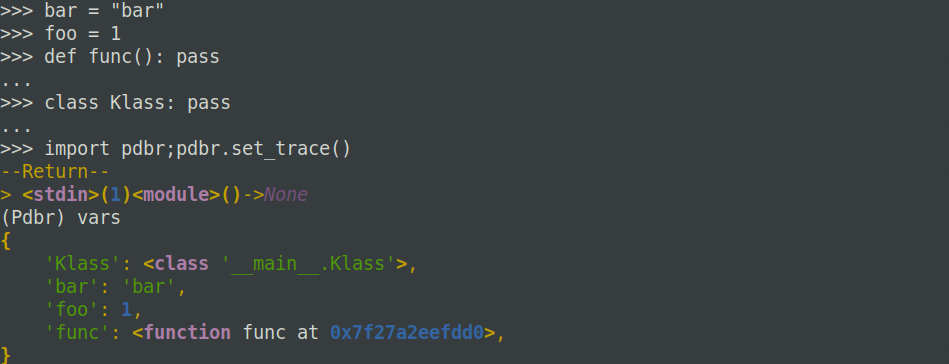
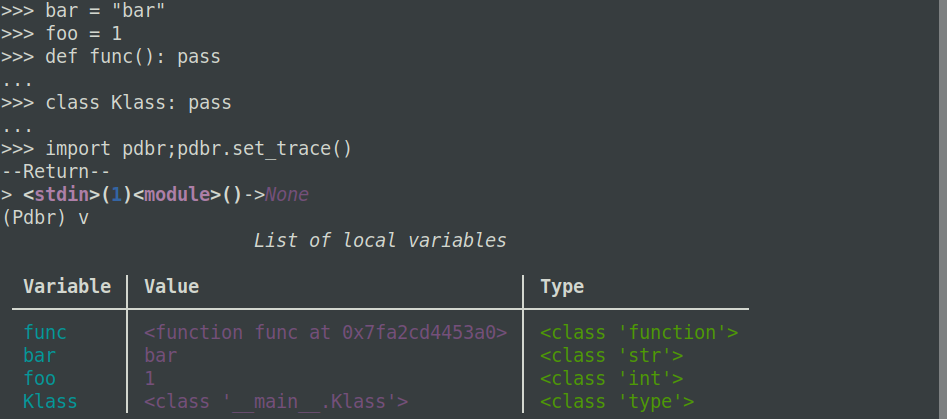
Added table view for local variables.

diff --git a/pdbr/_pdbr.py b/pdbr/_pdbr.py
@@ -1,8 +1,10 @@
 from pdb import Pdb
 
+from rich import box
 from rich.console import Console
 from rich.panel import Panel
 from rich.syntax import DEFAULT_THEME, Syntax
+from rich.table import Table
 from rich.theme import Theme
 
 
@@ -86,13 +88,18 @@ class RichPdb(Pdb):
         """
         List of local variables
         """
-        self._print(
-            {
-                k: v
-                for k, v in self.curframe.f_locals.items()
-                if not k.startswith("__") and k != "pdbr"
-            }
-        )
+
+        table = Table(title="List of local variables", box=box.MINIMAL)
+
+        table.add_column("Variable", style="cyan", no_wrap=True)
+        table.add_column("Value", style="magenta", no_wrap=True)
+        table.add_column("Type", style="green")
+        [
+            table.add_row(k, str(v), str(type(v)))
+            for k, v in self.curframe.f_locals.items()
+            if not k.startswith("__") and k != "pdbr"
+        ]
+        self._print(table)
 
     do_v = do_vars
 
